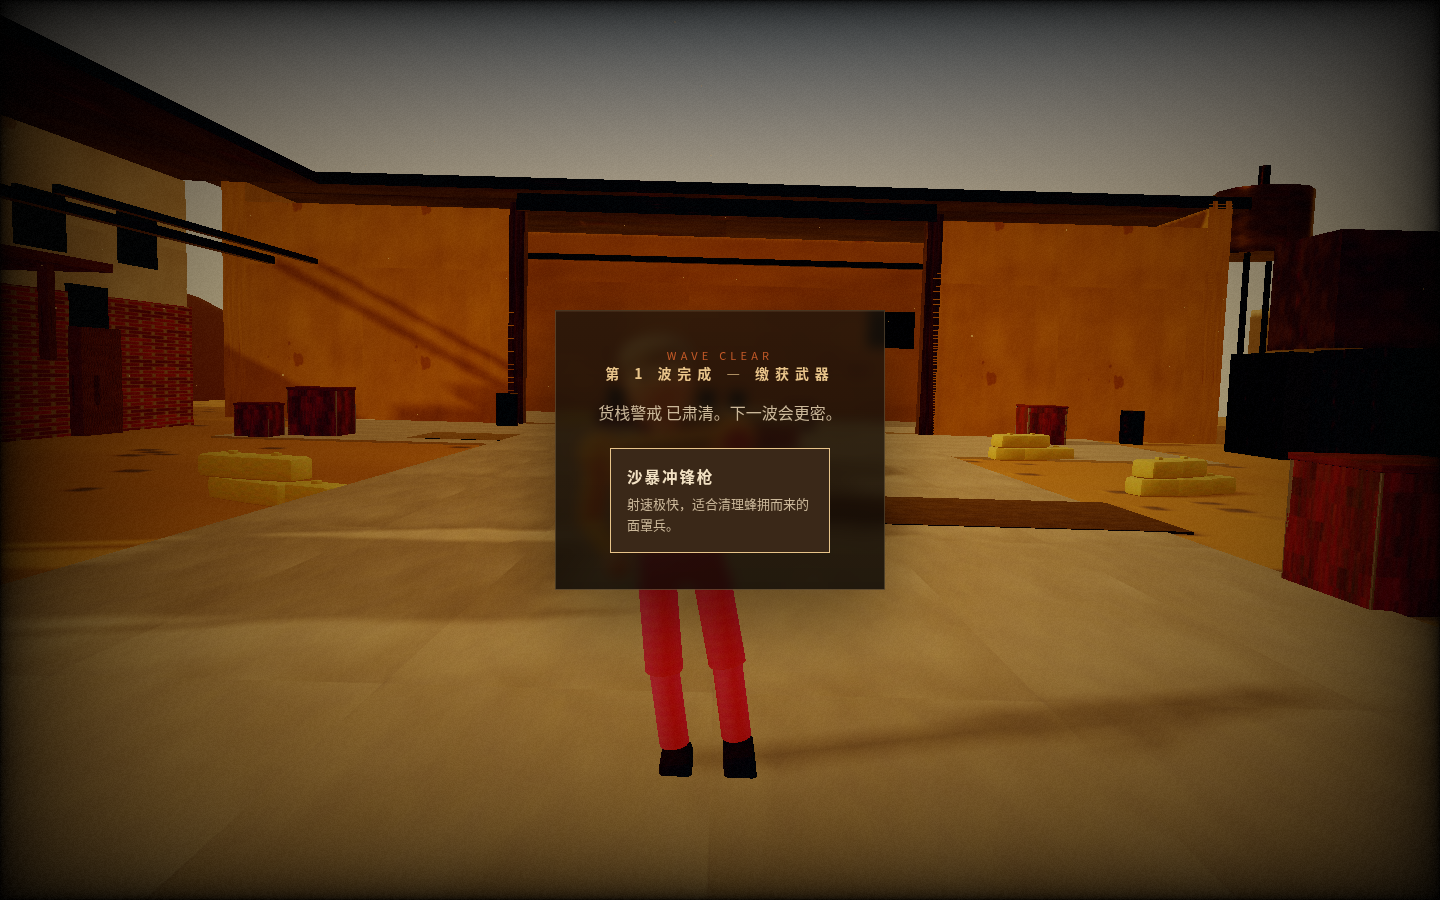
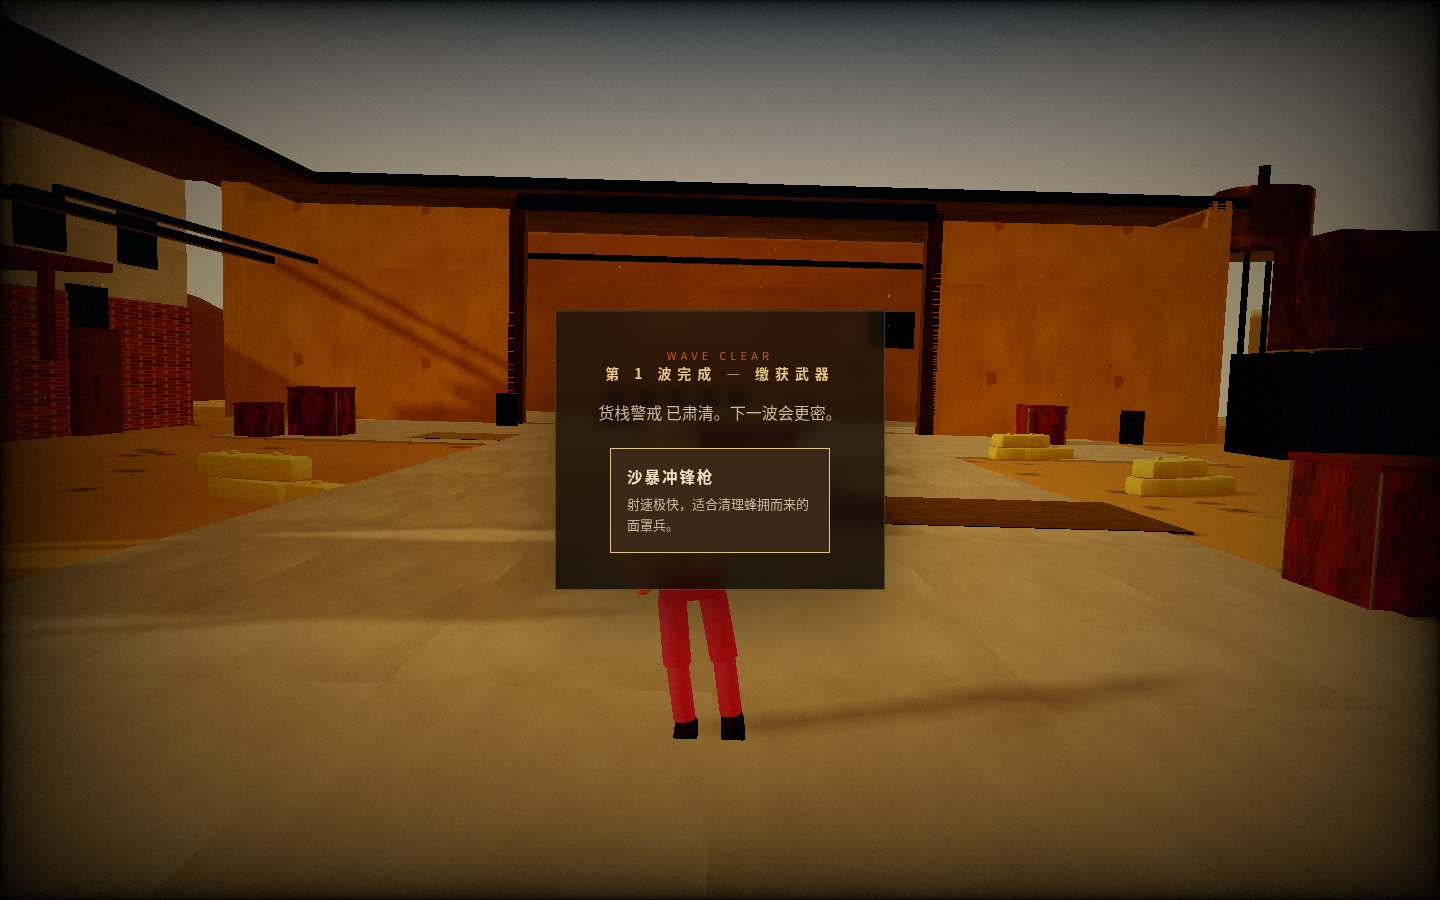
Keep enemy spawns a safe distance from the player.
Never fall back to a nearby listed point. Regular enemies spawn at
least 16 m away, rushers and bosses at 19–20 m, with a ring search
if no edge point qualifies, plus a short melee spawn grace.

Changed region(s): [[0.4375, 0.6533, 0.75, 0.8711], [0.75, 0.7778, 0.8438, 0.8089], [0.4375, 0.4356, 0.4688, 0.4667]]

diff --git a/js/world.js b/js/world.js
@@ -2,6 +2,17 @@
 import * as THREE from '../vendor/three/three.module.js';
 import { makeMaterial } from './textures.js';
 
+export const SPAWN_MIN_REGULAR = 16;
+export const SPAWN_MIN_RUSHER = 19;
+export const SPAWN_MIN_BOSS = 19;
+
+export function spawnMinFor(type) {
+  if (type === 'rusher') return SPAWN_MIN_RUSHER;
+  if (type === 'finalboss') return 20;
+  if (type === 'midboss' || (type && String(type).includes('boss'))) return SPAWN_MIN_BOSS;
+  return SPAWN_MIN_REGULAR;
+}
+
 const SKY_VERT = `
 varying vec3 vDir;
 void main() {
@@ -431,17 +442,75 @@ export class World {
   }
 
   _spawns() {
+    // Perimeter / edge points only — never the yard center in front of the player start.
     this.spawns = [
-      [0, -10.4], [10.2, -9.5], [-10.6, -8.8],
-      [12.4, 1.2], [-10.8, 4.6], [11.6, 9.6],
-      [-8.2, 15.2], [7.4, 15.6], [0.0, 8.4]
+      [0.0, -10.8], [4.4, -10.6], [-4.4, -10.6],
+      [8.2, -10.2], [-8.2, -10.2],
+      [0.0, -16.8], [7.5, -17.2], [-7.5, -17.2],
+      [12.4, -8.8], [12.6, -2.0], [12.5, 4.0], [12.2, 10.5], [11.8, 16.8],
+      [-12.4, -9.0], [-12.5, -3.0], [-12.4, 12.2], [-12.2, 17.0],
+      [-11.5, 18.8], [0.0, 19.0], [11.5, 18.8], [-6.0, 19.0], [6.0, 19.0]
     ];
   }
 
-  pickSpawn(px, pz, minDist = 10) {
-    const ok = this.spawns.filter(([x, z]) => Math.hypot(x - px, z - pz) >= minDist);
-    const list = ok.length ? ok : this.spawns;
-    return list[Math.floor(Math.random() * list.length)];
+  pickSpawn(px, pz, minDist = SPAWN_MIN_REGULAR) {
+    const far = [];
+    for (const [x, z] of this.spawns) {
+      const placed = this._validateSpawn(x, z, px, pz, minDist);
+      if (placed) far.push(placed);
+    }
+    if (far.length) return far[Math.floor(Math.random() * far.length)];
+    const ring = this._ringSpawn(px, pz, minDist);
+    if (ring) return ring;
+    return this._forcedFar(px, pz, minDist);
+  }
+
+  _validateSpawn(x, z, px, pz, minDist) {
+    const c = this.collide(x, 0.9, z, 0.48, 1.8);
+    const slip = Math.hypot(c.x - x, c.z - z);
+    if (slip > 0.9) return null;
+    const d = Math.hypot(c.x - px, c.z - pz);
+    if (d < minDist - 0.05) return null;
+    return [c.x, c.z];
+  }
+
+  _ringSpawn(px, pz, minDist) {
+    const radii = [minDist, minDist + 1.5, minDist + 3, minDist + 5];
+    const n = 16;
+    const off = Math.random() * Math.PI * 2;
+    for (const r of radii) {
+      for (let i = 0; i < n; i++) {
+        const a = off + (i * Math.PI * 2) / n;
+        const x = px + Math.cos(a) * r;
+        const z = pz + Math.sin(a) * r;
+        const placed = this._validateSpawn(x, z, px, pz, minDist);
+        if (placed) return placed;
+      }
+    }
+    return null;
+  }
+
+  _forcedFar(px, pz, minDist) {
+    let best = this.spawns[0], bestD = -1;
+    for (const s of this.spawns) {
+      const c = this.collide(s[0], 0.9, s[1], 0.48, 1.8);
+      const d = Math.hypot(c.x - px, c.z - pz);
+      if (d > bestD) { best = [c.x, c.z]; bestD = d; }
+    }
+    if (bestD >= minDist) return best;
+    let dx = best[0] - px, dz = best[1] - pz;
+    let len = Math.hypot(dx, dz);
+    if (len < 0.2) {
+      dx = -px || 1;
+      dz = -pz;
+      len = Math.hypot(dx, dz) || 1;
+    }
+    dx /= len; dz /= len;
+    const raw = this.collide(px + dx * minDist, 0.9, pz + dz * minDist, 0.48, 1.8);
+    const d = Math.hypot(raw.x - px, raw.z - pz);
+    if (d >= minDist - 0.05) return [raw.x, raw.z];
+    if (d > bestD) return [raw.x, raw.z];
+    return best;
   }
 
   collide(px, py, pz, radius, height) {

diff --git a/js/enemies.js b/js/enemies.js
@@ -37,6 +37,7 @@ export class Enemy {
     this.warn = null;
     this.strafe = Math.random() > 0.5 ? 1 : -1;
     this.root.traverse((o) => { o.userData.skipHit = true; });
+    this.spawnGrace = (this.def.kind === 'melee' || this.def.kind === 'boss') ? 0.9 : 0.45;
   }
 
   pos() { return this.root.position; }
@@ -75,7 +76,7 @@ export class Enemy {
       return this.deadT > 1.3;
     }
     if (this.state === 'spawn') {
-      const k = Math.min(1, this.age / 0.35);
+      const k = Math.min(1, this.age / 0.55);
       this.root.scale.setScalar((this.def.scale || 1) * k);
       if (k >= 1) this.state = 'chase';
       return false;
@@ -134,6 +135,7 @@ export class Enemy {
     }
 
     if (this.telegraph > 0) return false;
+    if (this.age < this.spawnGrace) return false;
 
     if (this.cd <= 0) {
       if (this.def.kind === 'melee' && dist < this.def.range) {

diff --git a/js/game.js b/js/game.js
@@ -460,7 +460,7 @@ export class Game {
 
   _applyShot() {
     const s = this._shotMode;
-    if (!s) return;
+    if (!s) return; // screenshot / test harness only (?shot=); never used on a normal start
     document.getElementById('boot').classList.add('hidden');
     if (s === 'title' || s === 'yard') {
       this.mode = 'title';
@@ -536,6 +536,7 @@ export class Game {
         fromGltf: !!(self.loadout.models.pistol && self.loadout.models.pistol.userData.fromGltf)
       }),
       start: () => self.startRun(),
+      pickSpawn: (x, z, minDist) => self.world.pickSpawn(x, z, minDist),
       spawnEnemy: (type, x, z) => self.combat.spawn(type || 'rusher', x ?? 0, z ?? 6),
       forceUpgrade: (id) => self.applyReward(id || 'gun_smg'),
       setWave: (n) => { self.waves.index = Math.max(0, n - 1); self.combat.clearAll(); self._beginWave(); },

diff --git a/js/waves.js b/js/waves.js
@@ -1,3 +1,4 @@
+import { spawnMinFor } from './world.js';
 
 export const WAVES = [
   {
@@ -128,7 +129,7 @@ export class WaveDirector {
     const cap = 12;
     while (this.queue.length && this.timer >= this.queue[0].delay && this.combat.living().length < cap) {
       const job = this.queue.shift();
-      const [x, z] = this.world.pickSpawn(player.position.x, player.position.z, job.type.includes('boss') ? 14 : 10);
+      const [x, z] = this.world.pickSpawn(player.position.x, player.position.z, spawnMinFor(job.type));
       this.combat.spawn(job.type, x, z);
       this.spawned += 1;
     }
